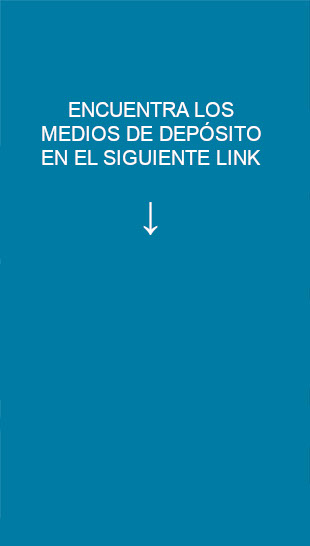
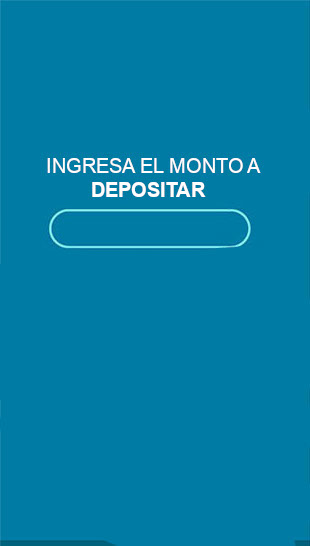
botones ventana deposito

Changed region(s): [[0.1161, 0.1868, 0.8419, 0.467], [0.0, 0.9652, 0.3774, 1.0], [0.929, 0.9652, 1.0, 1.0]]

diff --git a/src/deposito/vistadeposito.java b/src/deposito/vistadeposito.java
@@ -12,6 +12,8 @@ import javax.swing.ImageIcon;
 import javax.swing.JButton;
 import javax.swing.JFrame;
 import javax.swing.JLabel;
+import javax.swing.JTextField;
+import text.TextPrompt;
 
 /**
  *
@@ -19,11 +21,27 @@ import javax.swing.JLabel;
  */
 public class vistadeposito extends JFrame {
     
+    public JButton buttonx1;
+    public JButton buttonx2;
+    public JButton buttonx3;
+    public JButton buttonx4;
+    public JButton buttonx5;
+    public JButton buttonx6;
+    public JButton buttonx7;
+    public JButton buttonx8;
+    public JButton buttonx9;
+    public JButton buttonx0;
+    public JButton buttonxcancel;
+    
     public JButton cerrarventanax;
     public JButton aceptar;
     public JButton regresarx;
     
     public JLabel fondo;
+    
+    public JTextField valordeposito;
+    
+    private TextPrompt valordepositoT;
     
     public vistadeposito(){
         
@@ -45,6 +63,72 @@ public class vistadeposito extends JFrame {
         fondo.setIcon(new ImageIcon(getClass().getResource("/Imagenes/DEPOSITA.jpg")));
         fondo.setBackground(new Color(72, 181, 232));
         
+        buttonx1 = new JButton(new ImageIcon(getClass().getResource("/Imagenes/1small.png")));
+        buttonx1.setRolloverIcon(new ImageIcon(getClass().getResource("/Imagenes/1big.png")));
+        buttonx1.setContentAreaFilled(false);
+        buttonx1.setBorder(null);
+        buttonx1.setCursor(new Cursor(HAND_CURSOR));
+        
+        buttonx2 = new JButton(new ImageIcon(getClass().getResource("/Imagenes/2small.png")));
+        buttonx2.setRolloverIcon(new ImageIcon(getClass().getResource("/Imagenes/2big.png")));
+        buttonx2.setContentAreaFilled(false);
+        buttonx2.setBorder(null);
+        buttonx2.setCursor(new Cursor(HAND_CURSOR));
+        
+        buttonx3 = new JButton(new ImageIcon(getClass().getResource("/Imagenes/3small.png")));
+        buttonx3.setRolloverIcon(new ImageIcon(getClass().getResource("/Imagenes/3big.png")));
+        buttonx3.setContentAreaFilled(false);
+        buttonx3.setBorder(null);
+        buttonx3.setCursor(new Cursor(HAND_CURSOR));
+        
+        buttonx4 = new JButton(new ImageIcon(getClass().getResource("/Imagenes/4small.png")));
+        buttonx4.setRolloverIcon(new ImageIcon(getClass().getResource("/Imagenes/4big.png")));
+        buttonx4.setContentAreaFilled(false);
+        buttonx4.setBorder(null);
+        buttonx4.setCursor(new Cursor(HAND_CURSOR));
+        
+        buttonx5 = new JButton(new ImageIcon(getClass().getResource("/Imagenes/5small.png")));
+        buttonx5.setRolloverIcon(new ImageIcon(getClass().getResource("/Imagenes/5big.png")));
+        buttonx5.setContentAreaFilled(false);
+        buttonx5.setBorder(null);
+        buttonx5.setCursor(new Cursor(HAND_CURSOR));
+        
+        buttonx6 = new JButton(new ImageIcon(getClass().getResource("/Imagenes/6small.png")));
+        buttonx6.setRolloverIcon(new ImageIcon(getClass().getResource("/Imagenes/6big.png")));
+        buttonx6.setContentAreaFilled(false);
+        buttonx6.setBorder(null);
+        buttonx6.setCursor(new Cursor(HAND_CURSOR));
+        
+        buttonx7 = new JButton(new ImageIcon(getClass().getResource("/Imagenes/7small.png")));
+        buttonx7.setRolloverIcon(new ImageIcon(getClass().getResource("/Imagenes/7big.png")));
+        buttonx7.setContentAreaFilled(false);
+        buttonx7.setBorder(null);
+        buttonx7.setCursor(new Cursor(HAND_CURSOR));
+        
+        buttonx8 = new JButton(new ImageIcon(getClass().getResource("/Imagenes/8small.png")));
+        buttonx8.setRolloverIcon(new ImageIcon(getClass().getResource("/Imagenes/8big.png")));
+        buttonx8.setContentAreaFilled(false);
+        buttonx8.setBorder(null);
+        buttonx8.setCursor(new Cursor(HAND_CURSOR));
+        
+        buttonx9 = new JButton(new ImageIcon(getClass().getResource("/Imagenes/9small.png")));
+        buttonx9.setRolloverIcon(new ImageIcon(getClass().getResource("/Imagenes/9big.png")));
+        buttonx9.setContentAreaFilled(false);
+        buttonx9.setBorder(null);
+        buttonx9.setCursor(new Cursor(HAND_CURSOR));
+        
+        buttonx0 = new JButton(new ImageIcon(getClass().getResource("/Imagenes/0small.png")));
+        buttonx0.setRolloverIcon(new ImageIcon(getClass().getResource("/Imagenes/0big.png")));
+        buttonx0.setContentAreaFilled(false);
+        buttonx0.setBorder(null);
+        buttonx0.setCursor(new Cursor(HAND_CURSOR));
+        
+        buttonxcancel = new JButton(new ImageIcon(getClass().getResource("/Imagenes/cancelsmall.png")));
+        buttonxcancel.setRolloverIcon(new ImageIcon(getClass().getResource("/Imagenes/cancelbig.png")));
+        buttonxcancel.setContentAreaFilled(false);
+        buttonxcancel.setBorder(null);
+        buttonxcancel.setCursor(new Cursor(HAND_CURSOR));
+        
         cerrarventanax = new JButton(new ImageIcon(getClass().getResource("/Imagenes/cerrar.png")));
         cerrarventanax.setRolloverIcon(new ImageIcon(getClass().getResource("/Imagenes/cerrar_g.png")));
         cerrarventanax.setContentAreaFilled(false);
@@ -62,6 +146,13 @@ public class vistadeposito extends JFrame {
         regresarx.setContentAreaFilled(false);
         regresarx.setBorder(null);
         regresarx.setCursor(new Cursor(HAND_CURSOR));
+        
+        valordeposito = new JTextField(6);
+        valordeposito.setOpaque(false);
+        valordeposito.setBorder(null);
+        valordepositoT = new TextPrompt("Monto a depositar", valordeposito); 
+        valordeposito.setEditable(false);
+        valordeposito.setFocusable(false);
     }
     
     private void localizar(){
@@ -70,20 +161,48 @@ public class vistadeposito extends JFrame {
         
         fondo.setBounds(0,0,310,546);
         
+        valordeposito.setBounds(109, 214, 125, 30);
+        
         cerrarventanax.setBounds(270, 10, 25, 25);
         
         regresarx.setBounds(20,20,47,47);
         
         aceptar.setBounds(129, 465, 47, 47);
         
+        buttonx1.setBounds(90,280,40,40);
+        buttonx2.setBounds(130,280,40,40);
+        buttonx3.setBounds(170,280,40,40);
+        
+        buttonx4.setBounds(90,320,40,40);
+        buttonx5.setBounds(130,320,40,40);
+        buttonx6.setBounds(170,320,40,40);
+        
+        buttonx7.setBounds(90,360,40,40);
+        buttonx8.setBounds(130,360,40,40);
+        buttonx9.setBounds(170,360,40,40);
+        buttonx0.setBounds(130,400,40,40);
+        
+        buttonxcancel.setBounds(90,400,40,40);
+        
     }
     
     private void agregar(){
         
-        
+        add(valordeposito);
         add(cerrarventanax);
         add(regresarx);
         add(aceptar);
+        add(buttonx1);
+        add(buttonx2);
+        add(buttonx3);
+        add(buttonx4);
+        add(buttonx5);
+        add(buttonx6);
+        add(buttonx7);
+        add(buttonx8);
+        add(buttonx9);
+        add(buttonx0);
+        add(buttonxcancel);
         
         add(fondo);//siempre añadirlo al final
         
